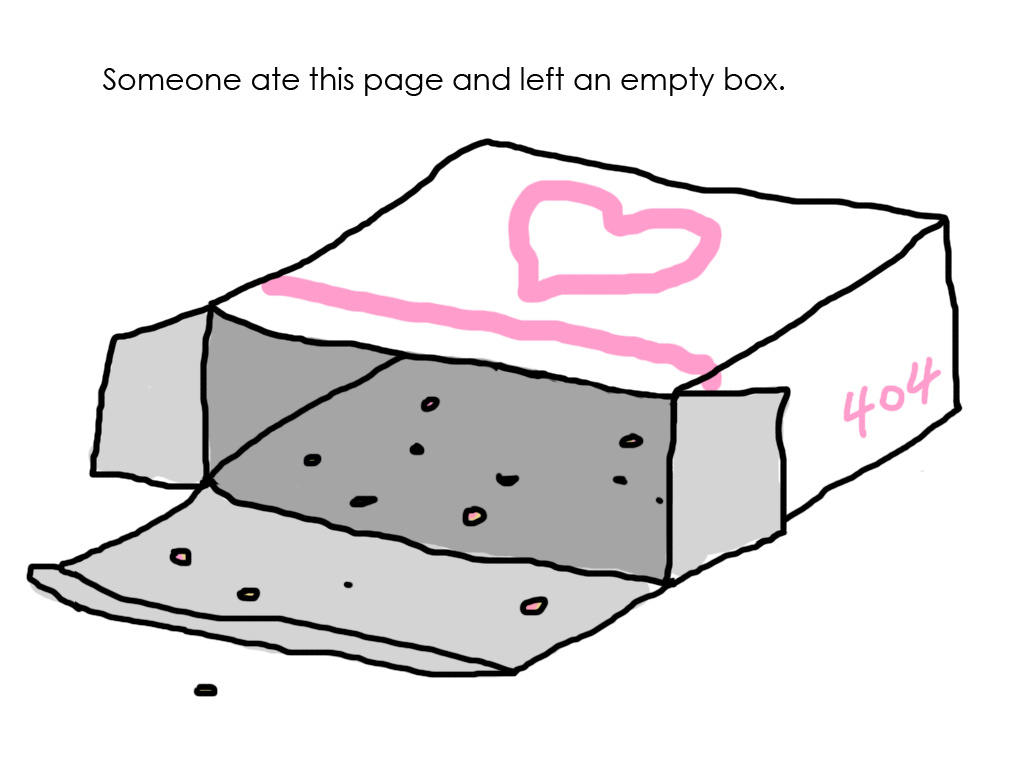
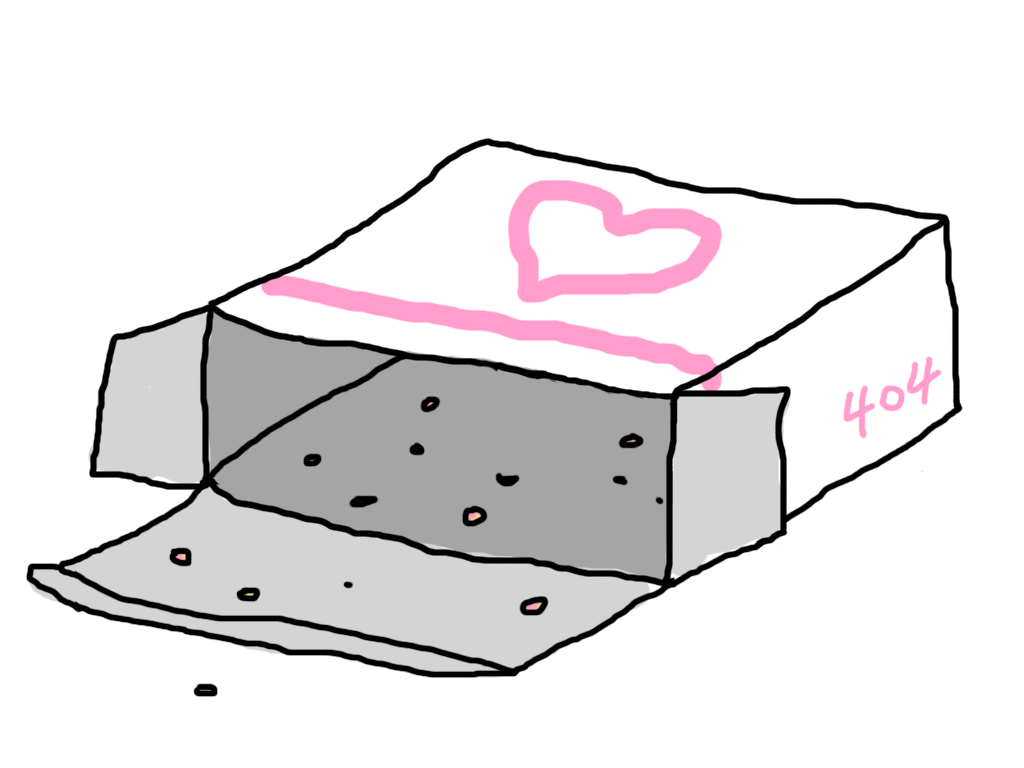
Changed 404 page again

Changed region(s): [[0.0938, 0.0938, 0.7812, 0.125]]

diff --git a/404.html b/404.html
@@ -20,9 +20,9 @@
 				</ul>
 			</nav>
 			<div id="main">
-				<h1>Someone ate this page and left an empty box.</h1>
+				<h1>This page has been eaten and an empty box was left.</h1>
 				<a href="/">
-					<img src="/404.png" alt="Return to the home" title="Return to the home">
+					<img src="/404.png" alt="Return to the home"/>
 				</a>
 			</div>
 			<div id="footer">&copy;2016 SUPERTSY5 All rights reserved.</div>
